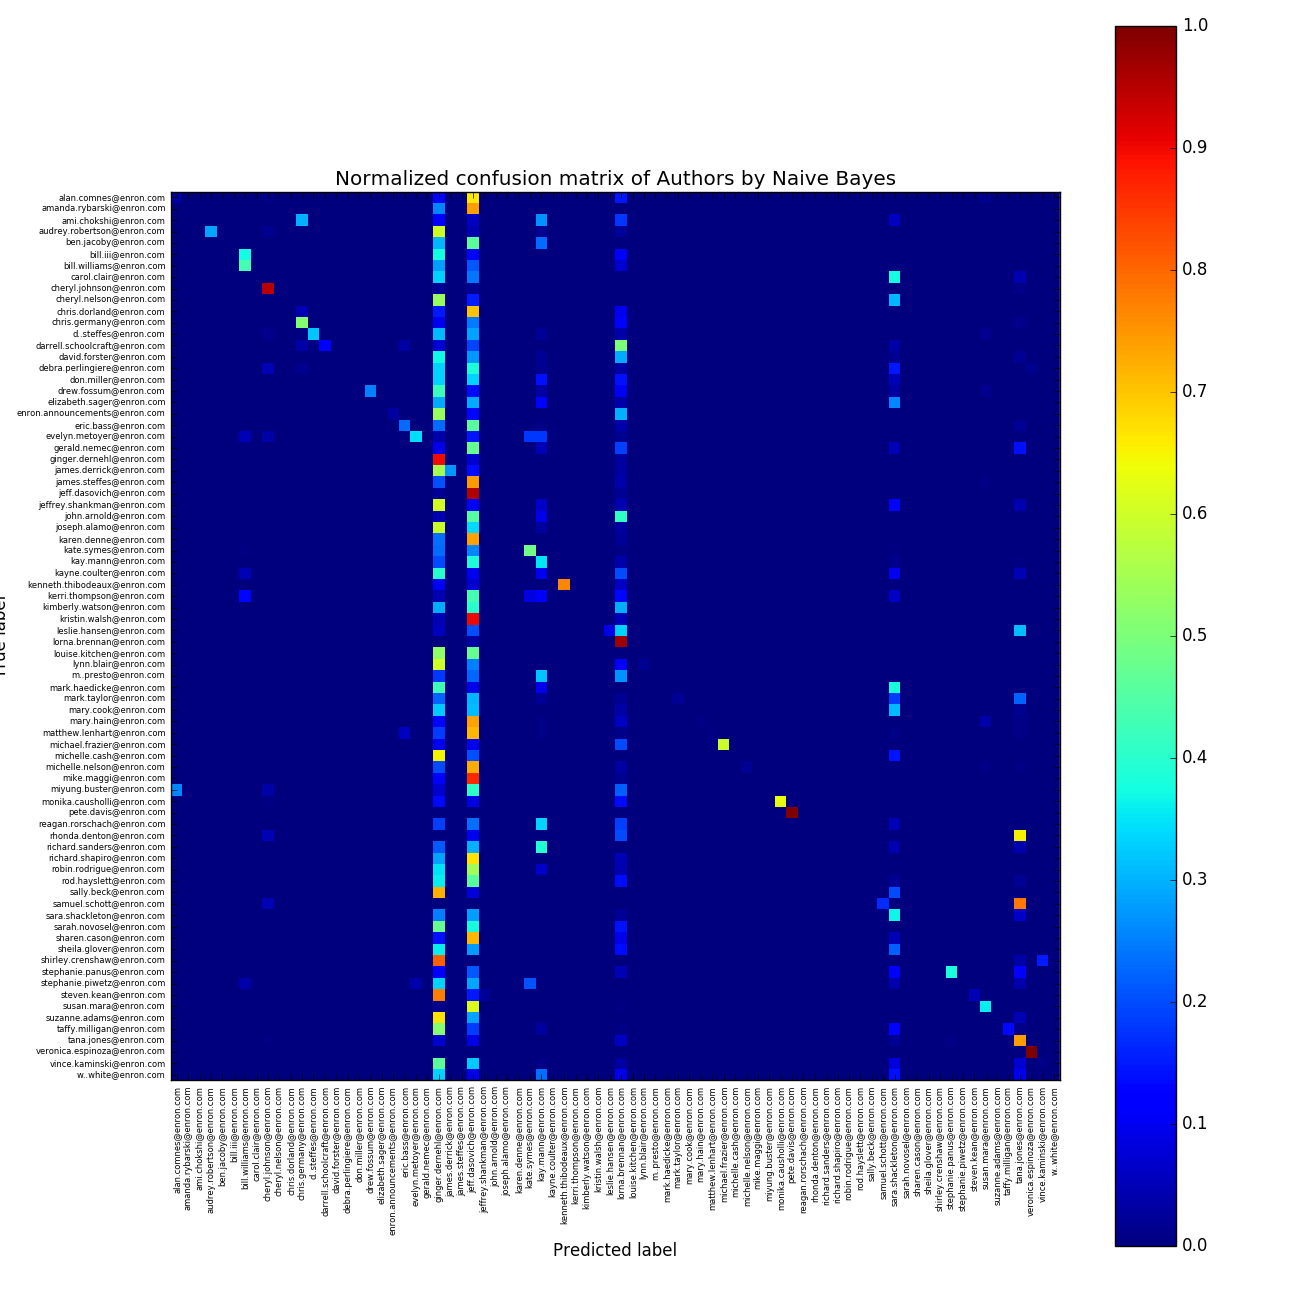
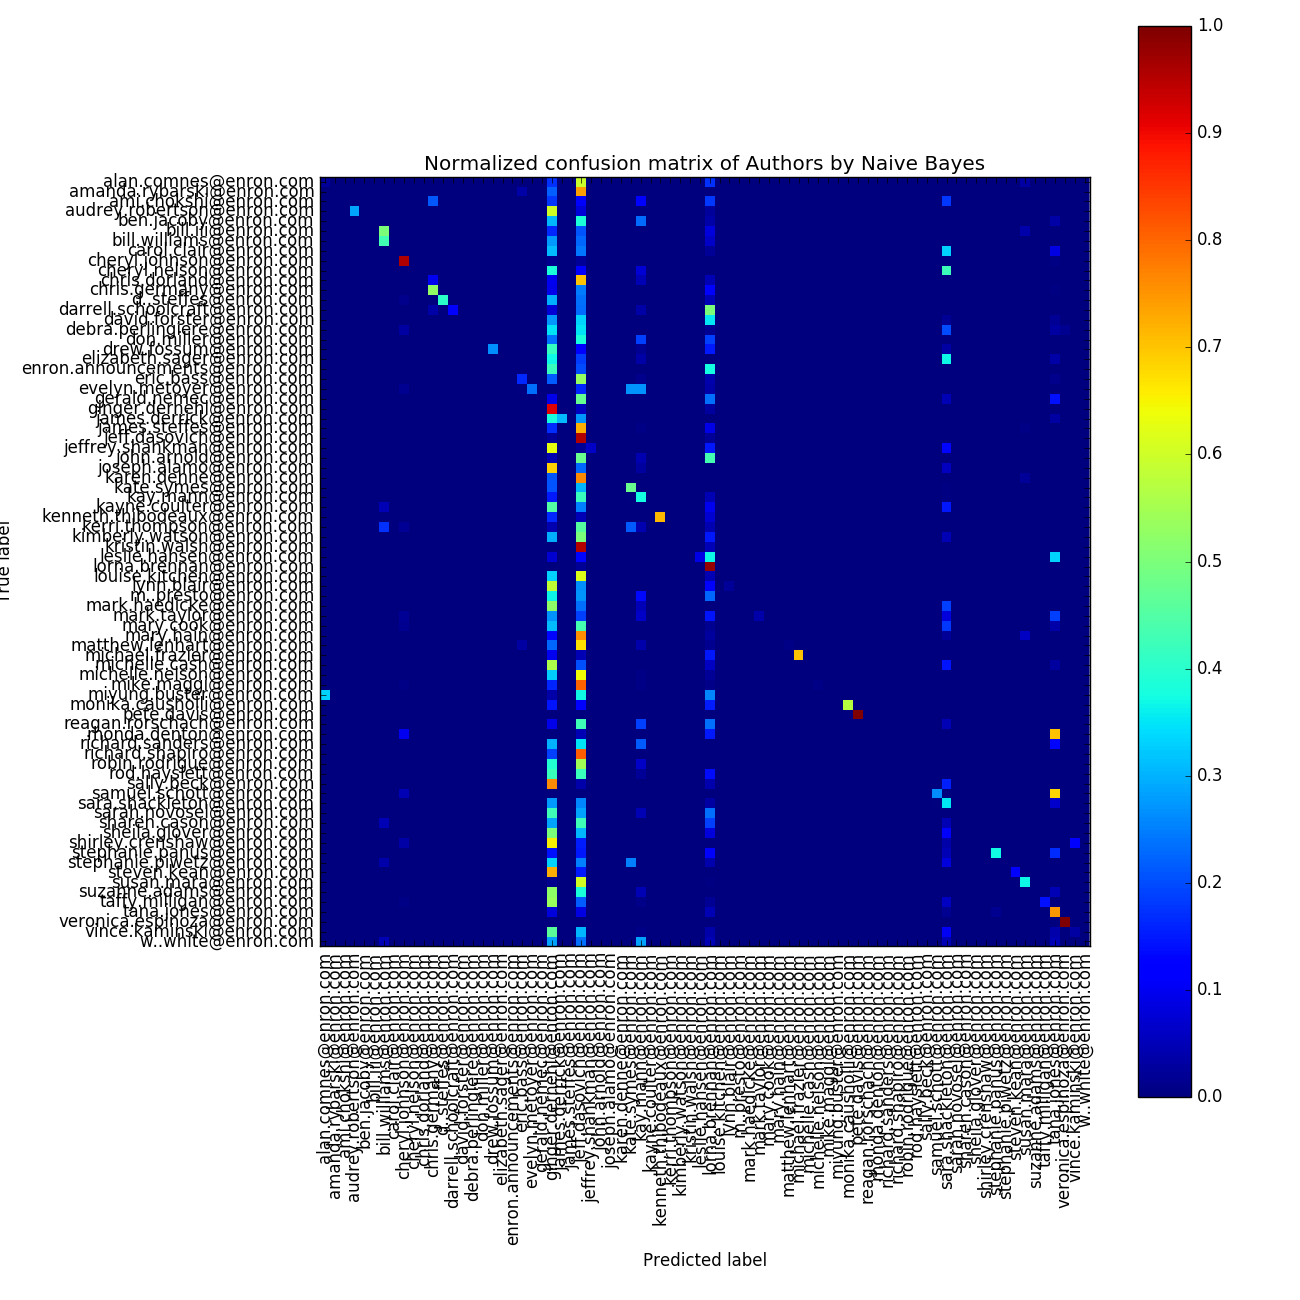
two-step classification

diff --git a/src/classify.py b/src/classify.py
@@ -6,6 +6,7 @@ from helper_functions import Logger
 
 from time import time
 import numpy as np
+from itertools import compress
 from sklearn.metrics import accuracy_score, confusion_matrix, classification_report
 from sklearn.externals import joblib
 
@@ -15,58 +16,89 @@ from sklearn.svm import SVC, LinearSVC
 from sklearn.ensemble import RandomForestClassifier, GradientBoostingClassifier
 from sklearn.neural_network import MLPClassifier
 
-try:
-    with open("./data/authors.pkl", "rb") as authors_file, \
-            open("./data/word_data.pkl", "rb") as words_file, \
-            open("./data/recipients.pkl", "rb") as recipients_file, \
-            open("./data/classes.pkl", "rb") as classes_file:
-        authors = pickle.load(authors_file)
-        recipients = pickle.load(recipients_file)
-        word_data = pickle.load(words_file)
-        classes = np.array(pickle.load(classes_file))
-except Exception as e:
-    print("Error in loading prepared data: {}\n Parsing data from database.".format(e))
-    word_data, authors, recipients, classes = parse_mails()
+def init_classification_data():
+    try:
+        with open("./data/authors.pkl", "rb") as authors_file, \
+                open("./data/word_data.pkl", "rb") as words_file, \
+                open("./data/recipients.pkl", "rb") as recipients_file, \
+                open("./data/classes.pkl", "rb") as classes_file:
+            authors = np.array(pickle.load(authors_file))
+            recipients = np.array(pickle.load(recipients_file))
+            word_data = pickle.load(words_file)
+            classes = np.array(pickle.load(classes_file))
+    except Exception as e:
+        print("Error in loading prepared data: {}\n Parsing data from database.".format(e))
+        word_data, authors, recipients, classes = parse_mails()
 
 
-## CONFIGURATION
-t = 1
-c = 3
+    target_options = {0: ("Authors", authors),
+                      1: ("Recipients", recipients),
+                      2: ("AuthorsAndRecipients", zip(authors, recipients))}
 
-target_options = {0: ("Authors", authors),
-                  1: ("Recipients", recipients),
-                  2: ("AuthorsAndRecipients)", zip(authors, recipients))}
+    clfs = {0: ("Naive Bayes", MultinomialNB()),
+            1: ("Decision Tree", DecisionTreeClassifier(min_samples_split=10)),
+            2: ("Linear SVM", LinearSVC(verbose=1)),
+            3: ("RBF SVM", SVC(C=10500, kernel="rbf", verbose=True, decision_function_shape="ovr")),
+            4: ("Random Forest", RandomForestClassifier(verbose=3)),
+            5: ("Neural Network", MLPClassifier(hidden_layer_sizes=(200,), early_stopping=True, verbose=True)),
+            6: ("Gradient Boosting", GradientBoostingClassifier(verbose=1))}
 
-clfs = {0: ("Naive Bayes", MultinomialNB()),
-        1: ("Decision Tree", DecisionTreeClassifier(min_samples_split=10)),
-        2: ("Linear SVM", LinearSVC(verbose=1)),
-        3: ("RBF SVM", SVC(C=10500, kernel="rbf", verbose=True, decision_function_shape="ovr")),
-        4: ("Random Forest", RandomForestClassifier(verbose=3)),
-        5: ("Neural Network", MLPClassifier(hidden_layer_sizes=(100,), early_stopping=True, verbose=True)),
-        6: ("Gradient Boosting", GradientBoostingClassifier(verbose=1))}
+    return word_data, authors, recipients, classes, clfs, target_options
 
-#for t in range(len(target_options)):
-for c in range(4,6):
-    title = "{} by {}".format(target_options.get(t)[0], clfs.get(c)[0])
-    sys.stdout = Logger(title)
-    targets = target_options.get(t)[1]
+
+def classify(c, t, word_data, save=False):
+    targets, clf = t[1], c[1]
     target_names = classes[np.unique(targets)]
+    if len(target_names) == 1: return _, 1
     features_train, features_test, labels_train, labels_test = preprocess(word_data, targets)
 
-    clf = clfs.get(c)[1]
-    print("\n### CLASSIFICATION using {} ###".format(clfs.get(c)[0]))
-
+    print("\n### CLASSIFICATION using {} ###".format(clf))
     t0 = time()
     clf.fit(features_train, labels_train)
     print("Training time:", round((time()-t0)/60, 2), "m")
-    joblib.dump(clf, "./data/{} Classifier.pkl".format(clfs.get(c)[0]))
 
     t1 = time()
     prediction = clf.predict(features_test.toarray())
     print("Prediction time:", round((time()-t1)/60, 2), "m")
 
     print(classification_report(labels_test, prediction, target_names=target_names))
+    acc = accuracy_score(prediction, labels_test)
     print("Accuracy:", accuracy_score(prediction, labels_test))
 
     cnf_matrix = confusion_matrix(labels_test, prediction)
+    score = np.diag(cnf_matrix)/np.sum(cnf_matrix, axis=0)
     plot_confusion_matrix(cnf_matrix, target_names, title, show=False)
+    if save: joblib.dump((clf, score), "./data/{} Classifier.pkl".format(c[0]))
+    return clf, acc if np.isnan(score).any() else score
+
+
+# CONFIGURATION
+t = 2
+c = 5
+
+#for t in range(len(target_options)):
+#for c in range(4,6):
+word_data, authors, recipients, classes, clfs, target_options = init_classification_data()
+title = "{} by {}".format(target_options.get(t)[0], clfs.get(c)[0])
+sys.stdout = Logger(title)
+
+if t == 2:
+    accuracies = []
+    try:
+        clf, author_score = joblib.load("./data/Neural Network Classifier.pkl")
+    except:
+        clf, author_score = classify(clfs.get(c), target_options.get(t), word_data, save=True if t == 1 else False)
+    for a in np.unique(authors):
+        s_targets = list(compress(recipients, authors == a))
+        s_data = list(compress(word_data, authors == a))
+        _, score = classify(clfs.get(c), ("Recipients of {}".format(classes[a]), s_targets), s_data)
+        accuracies.append(np.mean(score))
+
+    print("##################################")
+    print("Mean Recipient Score: {}".format(np.mean(accuracies)))
+    print("##################################")
+    print("FINAL SCORE: {}".format(np.mean(author_score * np.mean(accuracies))))
+    print("##################################")
+else:
+    classify(clfs.get(c), target_options.get(t), word_data, save=True if t == 0 else False)
+

diff --git a/src/preprocess.py b/src/preprocess.py
@@ -18,16 +18,19 @@ def preprocess(word_data, targets):
     print("-- Feature Selection")
     selector = SelectPercentile(percentile=5)
     data_selected = selector.fit_transform(data_transformed, targets)
-    print("Top {} features were selected".format(data_selected.shape[1]))
+    if data_selected.shape[1] == 0:
+        data_selected = data_transformed
+    else:
+        print("Top {} features were selected".format(data_selected.shape[1]))
 
-    # print top features
-    nr_features = 30
-    i = selector.scores_.argsort()[::-1][:nr_features]
-    top_features = np.column_stack((np.asarray(vectorizer.get_feature_names())[i],
-                                    selector.scores_[i],
-                                    selector.pvalues_[i]))
-    print("\nTop %i Features:" % nr_features)
-    print(pd.DataFrame(top_features, columns=["token", "score", "p-val"]), "\n")
+        # print top features
+        nr_features = 30
+        i = selector.scores_.argsort()[::-1][:nr_features]
+        top_features = np.column_stack((np.asarray(vectorizer.get_feature_names())[i],
+                                        selector.scores_[i],
+                                        selector.pvalues_[i]))
+        print("\nTop %i Features:" % nr_features)
+        print(pd.DataFrame(top_features, columns=["token", "score", "p-val"]), "\n")
 
     features_train, features_test, labels_train, labels_test = \
         train_test_split(data_selected, targets, test_size=0.2, stratify=targets)

diff --git a/src/helper_functions.py b/src/helper_functions.py
@@ -93,9 +93,13 @@ def plot_confusion_matrix(cm, targets, name, normalize=True, show=True):
     plt.title(title)
     plt.colorbar()
     tick_marks = np.arange(len(targets))
-    plt.xticks(tick_marks, targets, rotation=90, fontsize=int(500/len(targets)))
-    plt.yticks(tick_marks, targets, fontsize=int(500/len(targets)))
-    plt.tight_layout()
+    fontsize = max(12, int(500/len(targets)))
+    plt.xticks(tick_marks, targets, rotation=90, fontsize=fontsize)
+    plt.yticks(tick_marks, targets, fontsize=fontsize)
+    try:
+        plt.tight_layout()
+    except:
+        pass
     plt.ylabel('True label')
     plt.xlabel('Predicted label')
     plt.savefig("../results/{} CM.png".format(name))
